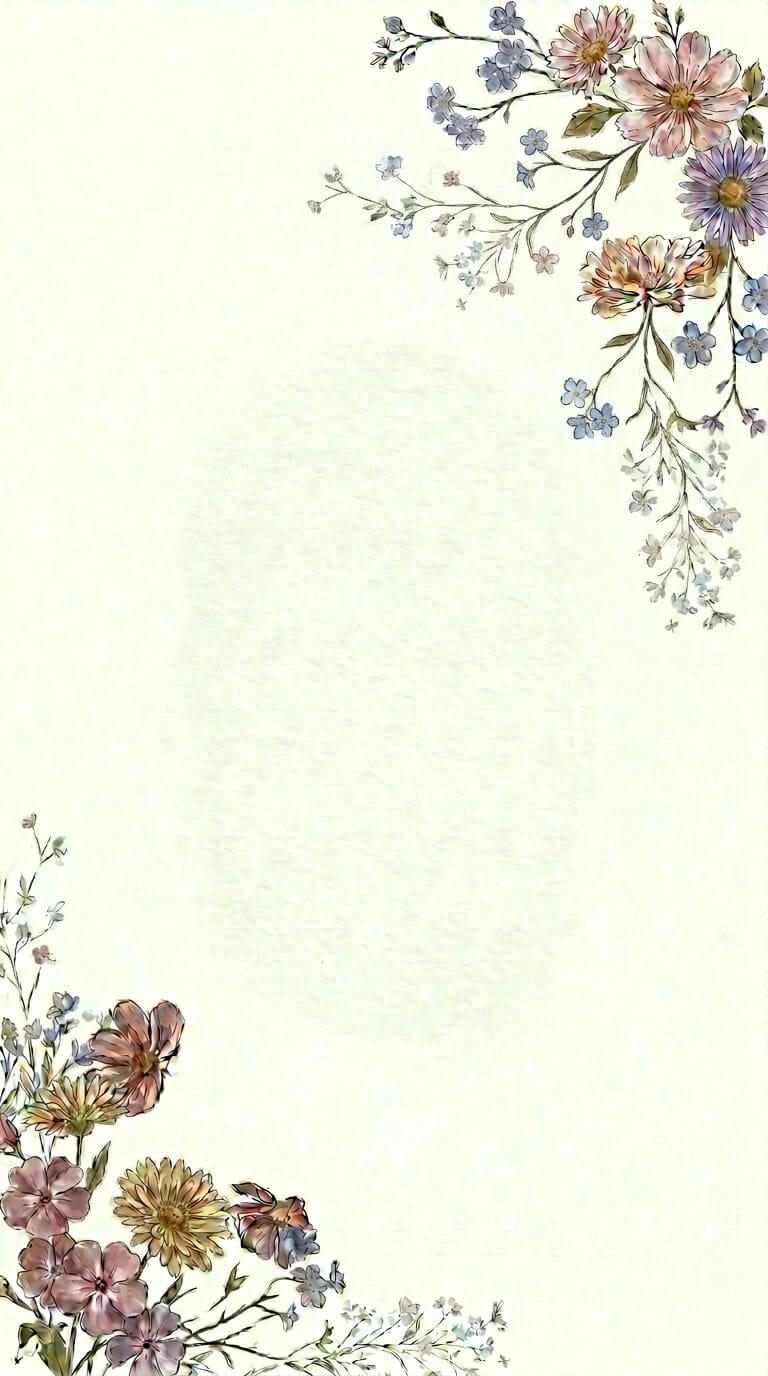
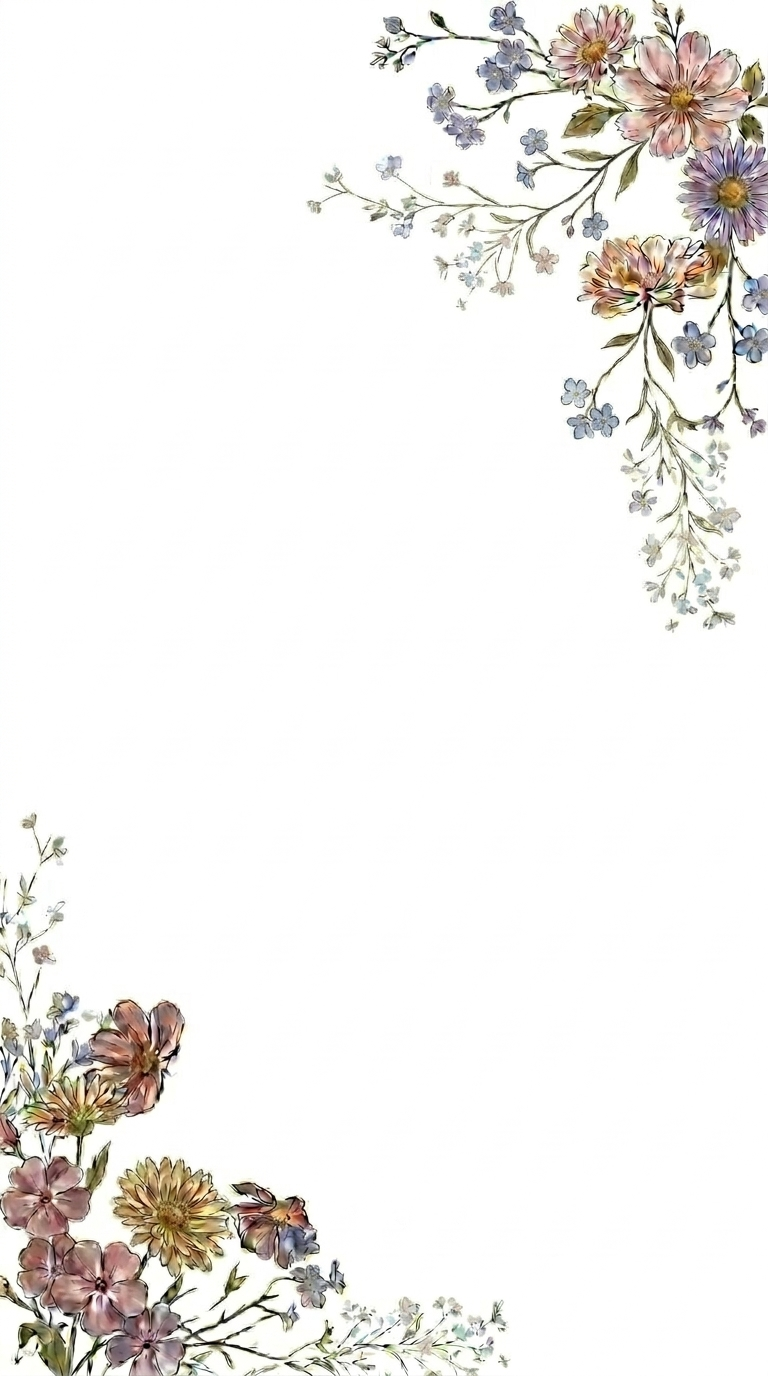
cleanup(app): remove unused imports, cleanup ticket view and resolve compilation warnings

diff --git a/src/modules/ticket/views/_ticket.scss b/src/modules/ticket/views/_ticket.scss
@@ -1,0 +1,139 @@
+$gold-gradient: linear-gradient(135deg, #c5a059 0%, #f3e7c4 30%, #ad8540 50%, #f3e7c4 70%, #b89752 100%);
+
+.ticket {
+    height: 100dvh;
+    width: 100dvw;
+    box-sizing: border-box;
+    padding: 2rem 1.5rem;
+    display: flex;
+    flex-direction: column;
+    justify-content: center;
+    align-items: center;
+    position: relative;
+    overflow: hidden;
+
+    background-color: $color-neutral-50;
+    background-image:
+      radial-gradient(circle at 50% 30%, rgba($color-primary-200, 0.4) 0%, rgba($color-primary-50, 1) 70%),
+      radial-gradient(circle at 20% 80%, rgba($color-tertiary-200, 0.25) 0%, rgba($color-tertiary-50, 1) 60%);
+
+    &__back-btn {
+        position: absolute;
+        top: 20px;
+        left: 20px;
+        background: rgba(255, 255, 255, 0.85);
+        backdrop-filter: blur(8px);
+        border: 1px solid rgba($color-tertiary-600, 0.4);
+        border-radius: 20px;
+        padding: 8px 16px;
+        font-family: 'Playfair Display SC', serif;
+        font-size: 0.9rem;
+        font-weight: 700;
+        cursor: pointer;
+        display: flex;
+        align-items: center;
+        gap: 6px;
+        color: $color-tertiary-900;
+        z-index: 10;
+        box-shadow: 0 4px 15px rgba(0, 0, 0, 0.05);
+        transition: transform 0.2s, background-color 0.2s;
+
+        &:hover {
+            transform: translateY(-1px);
+            background-color: rgba(255, 255, 255, 0.95);
+        }
+
+        i {
+            font-size: 1.2rem;
+        }
+    }
+
+    &__container {
+        background-color: $color-bg;
+        box-shadow: 0 15px 50px rgba(0, 0, 0, 0.12);
+        padding: 1.5rem;
+        height: 100%;
+        width: 100%;
+        max-width: 380px;
+        max-height: 680px;
+        box-sizing: border-box;
+        border-radius: 12px;
+        border: 1px solid rgba($color-tertiary-300, 0.5);
+        position: relative;
+        z-index: 2;
+        animation: fade-up-in 1.2s cubic-bezier(0.16, 1, 0.3, 1) forwards;
+    }
+
+    &__content {
+        border: 1px solid rgba(#c5a059, 0.35);
+        height: 100%;
+        padding: 1.5rem 1rem;
+        box-sizing: border-box;
+        border-radius: 6px;
+        display: flex;
+        flex-direction: column;
+        justify-content: space-between;
+        background-image: radial-gradient(circle at center, rgba(255, 255, 255, 0.8) 0%, rgba(253, 252, 250, 0.3) 100%);
+    }
+
+    &__header {
+        display: flex;
+        flex-direction: column;
+        align-items: center;
+        text-align: center;
+    }
+
+    &__divider {
+        position: relative;
+        height: 20px;
+        display: flex;
+        align-items: center;
+        justify-content: center;
+        margin: 10px -2.5rem;
+    }
+
+    &__notch {
+        position: absolute;
+        width: 24px;
+        height: 24px;
+        border-radius: 50%;
+        background-color: $color-neutral-50;
+        background-image:
+          radial-gradient(circle at center, rgba($color-primary-200, 0.1) 0%, rgba($color-primary-50, 0.1) 70%);
+        border: 1px solid rgba($color-tertiary-300, 0.4);
+        box-shadow: inset 0 2px 5px rgba(0, 0, 0, 0.05);
+        z-index: 3;
+
+        &--left {
+            left: -12px;
+            transform: rotate(90deg);
+        }
+
+        &--right {
+            right: -12px;
+            transform: rotate(-90deg);
+        }
+    }
+
+    &__dashed-line {
+        width: 100%;
+        height: 0;
+        border-top: 1.5px dashed rgba(#c5a059, 0.4);
+        z-index: 1;
+    }
+
+    &__body {
+        display: flex;
+        flex-direction: column;
+        align-items: center;
+        text-align: center;
+        padding: 0.5rem 0;
+    }
+
+    &__footer {
+        display: flex;
+        flex-direction: column;
+        align-items: center;
+        gap: 15px;
+    }
+}

diff --git a/src/modules/invitation/components/hero/_hero.scss b/src/modules/invitation/components/hero/_hero.scss
@@ -3,16 +3,16 @@
     position: relative;
     overflow: hidden;
 
-    &__overlay {
-        position: absolute;
-        top: 0;
-        left: 0;
-        width: 100%;
-        height: 108%;
-        background-image: linear-gradient(to bottom, $color-primary-100, $color-primary-50);
-        opacity: 0.5;
-        z-index: 2;
-    }
+    // &__overlay {
+    //     position: absolute;
+    //     top: 0;
+    //     left: 0;
+    //     width: 100%;
+    //     height: 108%;
+    //     background-image: linear-gradient(to bottom, $color-primary-100, $color-primary-50);
+    //     opacity: 0.2;
+    //     z-index: 2;
+    // }
 
     &__background {
         position: absolute;
@@ -22,11 +22,9 @@
         height: 107%;
         opacity: 1;
         object-fit: cover;
-        object-position: 50% 50%;
+        object-position: 50% 70%;
         z-index: 1;
     }
-
-    // @include mixins.difuminatedGradient();
 }
 
 .hero__content {
@@ -116,7 +114,7 @@
 
     &-image {
         margin-top: -20px;
-        width: 10rem;
+        width: 8rem;
         object-fit: cover;
         opacity: 0;
 

diff --git a/src/modules/ticket/views/Ticket.tsx b/src/modules/ticket/views/Ticket.tsx
@@ -1,10 +1,36 @@
 import React from 'react'
+import './_ticket.scss'
 
 export const Ticket: React.FC = () => {
+
     return (
         <div className='ticket'>
             <div className="ticket__container">
+                <div className="ticket__content">
+                    <div className="ticket__header">
 
+                    </div>
+
+                    <div className="ticket__divider">
+                        <div className="ticket__notch ticket__notch--left"></div>
+                        <div className="ticket__dashed-line"></div>
+                        <div className="ticket__notch ticket__notch--right"></div>
+                    </div>
+
+                    <div className="ticket__body">
+
+                    </div>
+
+                    <div className="ticket__divider">
+                        <div className="ticket__notch ticket__notch--left"></div>
+                        <div className="ticket__dashed-line"></div>
+                        <div className="ticket__notch ticket__notch--right"></div>
+                    </div>
+
+                    <div className="ticket__footer">
+
+                    </div>
+                </div>
             </div>
         </div>
     )

diff --git a/src/JardinCosmicoApp.tsx b/src/JardinCosmicoApp.tsx
@@ -5,14 +5,13 @@ import { store } from './store'
 
 import { RouterApp } from './router/RouterApp'
 
-import { ModalMaster, ControlsMusic } from './common/components'
+import { ModalMaster } from './common/components'
 
 export const JardinCosmicoApp: React.FC = () => {
     return (
         <Provider store={store}>
             <RouterApp />
 
-            <ControlsMusic />
             <ModalMaster />
         </Provider>
     )

diff --git a/src/common/components/Controls/_controls.scss b/src/common/components/Controls/_controls.scss
@@ -5,6 +5,9 @@
     padding: 1rem;
     box-shadow: 0 5px 10px rgba($color: #000000, $alpha: 0.25);
     bottom: 2rem;
+    display: flex;
+    justify-content: center;
+    align-items: center;
 
     &--music {
         left: 2rem;

diff --git a/src/common/components/Accordion/_accordion.scss b/src/common/components/Accordion/_accordion.scss
@@ -8,7 +8,7 @@
 
     &__item {
         border: 1px solid rgba($color-tertiary-300, 0.4);
-        background-color: rgba($color-primary-50, 0.7);
+        background-color: rgba($color-primary-200, 1);
         overflow: hidden;
         transition: all 0.3s cubic-bezier(0.4, 0, 0.2, 1);
 

diff --git a/src/modules/invitation/components/farewell/_farewell.scss b/src/modules/invitation/components/farewell/_farewell.scss
@@ -44,7 +44,7 @@
     padding: 8rem 2rem;
 
     &__bg {
-        @include mixins.backgroundImage(0.45);
+        @include mixins.backgroundImage(0.99);
         z-index: 1;
         pointer-events: none;
     }

diff --git a/src/modules/invitation/views/Invitation.tsx b/src/modules/invitation/views/Invitation.tsx
@@ -1,6 +1,5 @@
 import React from 'react'
 import { Hero, Countdown, Welcome, Guest, Message, Family, Location, Reminders, Presents, Itinerary, Farewell } from '..'
-import { ControlsEnvelope } from '@/common/components'
 
 export const Invitation: React.FC = () => {
     return (
@@ -18,7 +17,6 @@ export const Invitation: React.FC = () => {
                 <Itinerary />
                 <Farewell />
             </div>
-            <ControlsEnvelope />
         </>
     )
 }